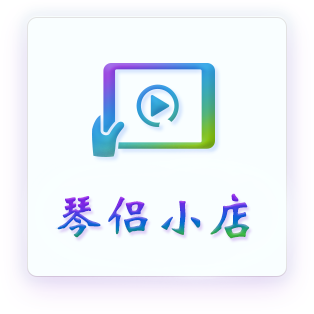
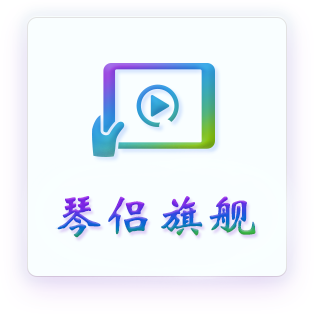
提交

Changed region(s): [[0.5159, 0.6019, 0.8312, 0.7739]]

diff --git a/src/view/videoShow/video.vue b/src/view/videoShow/video.vue
@@ -30,11 +30,12 @@
 
        <div class="garden">
       <router-link to="garden">
-      <img src="https://fengpu1351-1300303301.cos.ap-guangzhou.myqcloud.com/%E5%A5%87%E5%A6%99%E5%AD%A6%E7%90%B4%E8%AE%B0/5.png" width="100px" height="75px">
+      <img src="https://fengpu1351-1300303301.file.myqcloud.com/%E5%A5%87%E5%A6%99%E5%AD%A6%E7%90%B4%E8%AE%B0/5.png" width="100px" height="75px">
       </router-link>
     </div>
 
 
+<!-- <div id="vcenterx"><span class="title">游戏式学琴</span></div> -->
 
    <v-footer></v-footer>
   </div>
@@ -63,10 +64,10 @@ export default {
         }
       ],
       poster: [
-      "https://fengpu1351-1300303301.cos.ap-guangzhou.myqcloud.com/%E5%A5%87%E5%A6%99%E5%AD%A6%E7%90%B4%E8%AE%B0/1.png",
-      "https://fengpu1351-1300303301.cos.ap-guangzhou.myqcloud.com/%E5%A5%87%E5%A6%99%E5%AD%A6%E7%90%B4%E8%AE%B0/2.png",
-      "https://fengpu1351-1300303301.cos.ap-guangzhou.myqcloud.com/%E5%A5%87%E5%A6%99%E5%AD%A6%E7%90%B4%E8%AE%B0/3.png",
-      "https://fengpu1351-1300303301.cos.ap-guangzhou.myqcloud.com/%E5%A5%87%E5%A6%99%E5%AD%A6%E7%90%B4%E8%AE%B0/4.png"
+      "https://fengpu1351-1300303301.file.myqcloud.com/%E5%A5%87%E5%A6%99%E5%AD%A6%E7%90%B4%E8%AE%B0/1.png",
+      "https://fengpu1351-1300303301.file.myqcloud.com/%E5%A5%87%E5%A6%99%E5%AD%A6%E7%90%B4%E8%AE%B0/2.png",
+      "https://fengpu1351-1300303301.file.myqcloud.com/%E5%A5%87%E5%A6%99%E5%AD%A6%E7%90%B4%E8%AE%B0/3.png",
+      "https://fengpu1351-1300303301.file.myqcloud.com/%E5%A5%87%E5%A6%99%E5%AD%A6%E7%90%B4%E8%AE%B0/4.png"
       ]
     }
   },
@@ -199,10 +200,9 @@ export default {
 }
 .swiper-wrapper {
   width: 100%;
-  text-align: left;
+  text-align: center;
   flex-wrap: nowrap;
   flex-direction: row;
-  padding-left: 0.3em;
   overflow-x: scroll;
 }
 .slide-item {
@@ -347,7 +347,7 @@ text-align: center;
 #vcenter1{
 width: 100px;
 height: 50px;
-background: url("https://fengpu1351-1300303301.cos.ap-guangzhou.myqcloud.com/%E5%A5%87%E5%A6%99%E5%AD%A6%E7%90%B4%E8%AE%B0/2.png");
+background: url("https://fengpu1351-1300303301.file.myqcloud.com/%E5%A5%87%E5%A6%99%E5%AD%A6%E7%90%B4%E8%AE%B0/2.png");
 background-size: 100% 100%;
 padding-top: 25px;
 font-weight: bold;
@@ -377,9 +377,9 @@ text-align: center;
 
 
 .garden{
-text-align: left;
-padding-left: 0.3em;
-margin-top: 0.8em;
+text-align: center;
+margin-top: 1em;
+margin-right: 25px;
 }
 
 
@@ -387,5 +387,18 @@ margin-top: 0.8em;
 background-color: #fff;
 color: rgb(43, 31, 218);
 font-size: 16px;
+padding: 0 10px;
+}
+
+#vcenterx{
+width: 100px;
+height: 50px;
+background: url("https://fengpu1351-1300303301.file.myqcloud.com/%E5%A5%87%E5%A6%99%E5%AD%A6%E7%90%B4%E8%AE%B0/2.png");
+background-size: 100% 100%;
+font-weight: bold;
+text-align: center;
+background-repeat: no-repeat;
+padding-top: 25px;
+margin-left: 0.3em;
 }
 </style>

diff --git a/src/components/footer.vue b/src/components/footer.vue
@@ -79,16 +79,16 @@ export default {
           path: '/index',
           icon: indexPic
         }, {
-          name: '曲谱订购',
+          name: '鸟然谱库',
           path: '/songSearch',
           icon: songSearchPic
         }, {
-          name: '琴侣配器',
+          name: '琴侣旗舰',
           path: '/goodsList',
           icon: goodsListPic
         }, {
-          name: '曲谱译制',
-          path: '/explain',
+          name: '用户定制',
+          path: '/explain1',
           icon: explainPic
         }, {
           name: '服务中心',
@@ -99,7 +99,7 @@ export default {
           path: '/personal',
           icon: personalPic
         }, {
-          name: '视频展示',
+          name: '琴侣微漫',
           path: '/video',
           icon: videoPic
         },

diff --git a/src/view/forum/QA.vue b/src/view/forum/QA.vue
@@ -1,7 +1,7 @@
 <template>
      <div class="QA">
         <div class="hidden" :style="{'height':height}">
-           <div class="inner-container" :style="{'animation-duration':duration}">
+           <!-- <div class="inner-container" :style="{'animation-duration':duration}"> -->
        <div class="gundong" v-for="(item,index) in postList" :key="index">
         <div class="Q">
               <div class="img"><img class="img-ask" src="../../assets/images/forum/ask.jpg"></div>
@@ -12,7 +12,7 @@
               <span class="span-answer">{{item.answer}}</span>  
         </div>
        </div>
-        </div>
+        <!-- </div> -->
         </div>
         <div class="ask-box">
               <input class="text" type="text" v-model="myask" placeholder="请在此输入您的问题">

diff --git a/src/router/index.js b/src/router/index.js
@@ -117,7 +117,7 @@ const router = new Router({
       path: '/index',
       component: index,
       meta: {
-        title: '新概念学琴'
+        title: '新概念学琴平台'
       }
     },
     // 曲谱购买-曲谱详情
@@ -135,7 +135,7 @@ const router = new Router({
       name: 'goodsList',
       component: goodsList,
       meta: {
-        title: '琴侣小店'
+        title: '琴侣旗舰'
       }
     },
     // 琴侣-详情

diff --git a/src/view/customized/explain1.vue b/src/view/customized/explain1.vue
@@ -27,7 +27,7 @@
 
 
 <div class="flash">
-  <img src="https://fengpu1351-1300303301.file.myqcloud.com/%E5%A5%87%E5%A6%99%E5%AD%A6%E7%90%B4%E8%AE%B0/%E5%B0%8F%E5%8A%A8%E7%94%BB12-11.gif"
+  <img src="https://fengpu1351-1300303301.file.myqcloud.com/%E5%A5%87%E5%A6%99%E5%AD%A6%E7%90%B4%E8%AE%B0/%E5%B0%8F%E5%8A%A8%E7%94%BBnew.gif"
   height="200px" width="80%">
 </div>
 

diff --git a/src/style.css b/src/style.css
@@ -26,7 +26,7 @@ line-height: 200%;
 
 .wenxin-div{
 margin-top: 5%;
-margin-bottom: 5%;
+margin-bottom: 0%;
 /* border: 2px dashed rgb(18, 132, 207); */
 width: 100%;
 }
